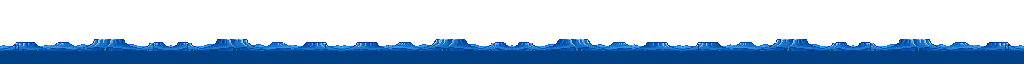
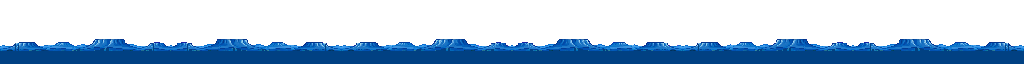
v0.52.1: os 16 fundos do horizonte desenhados pelo Victor (cidade e zona industrial com versão noturna de luzes acesas)
Claude-Session: https://claude.ai/code/session_01MLD9VR7gkmY4w6a9beZcp6

diff --git a/src/bgart.ts b/src/bgart.ts
@@ -332,18 +332,20 @@ const cache = new Map<string, HTMLCanvasElement>();
 // no cache, para trocar assim que ela chegar); à noite os pixels escurecem como os gerados.
 const ART = import.meta.glob('./assets/bg/*.png', { eager: true, import: 'default' }) as Record<string, string>;
 const artImgs = new Map<string, HTMLImageElement>();
-function artFor(kind: BgLayer): HTMLImageElement | null | undefined {
-  const src = ART[`./assets/bg/${kind}.png`];
+// night: a versão noturna (<nome>-night.png, luzes acesas e o resto já escurecido), quando existe
+function artFor(kind: BgLayer, night = false): HTMLImageElement | null | undefined {
+  const name = night && ART[`./assets/bg/${kind}-night.png`] ? `${kind}-night` : kind;
+  const src = ART[`./assets/bg/${name}.png`];
   if (!src) return undefined; // sem arte: fundo gerado
-  let im = artImgs.get(kind);
+  let im = artImgs.get(name);
   if (!im) {
     im = new Image();
     im.src = src;
-    artImgs.set(kind, im);
+    artImgs.set(name, im);
   }
   return im.complete && im.naturalWidth ? im : null; // null: ainda carregando
 }
-export const preloadBgArt = () => (Object.keys(ART).map((k) => k.slice(12, -4)) as BgLayer[]).forEach((k) => artFor(k));
+export const preloadBgArt = () => (Object.keys(ART).map((k) => k.slice(12, -4).replace('-night', '')) as BgLayer[]).forEach((k) => { artFor(k); artFor(k, true); });
 
 export function panorama(kind: BgLayer, near: boolean, night: boolean, seed: number): HTMLCanvasElement {
   const key = `${kind}:${near}:${night}:${seed}`;
@@ -351,14 +353,15 @@ export function panorama(kind: BgLayer, near: boolean, night: boolean, seed: num
   if (cv) return cv;
   const img = new Img(PANO_W, PANO_H);
   const rand = rng(seed * 7919 + (near ? 13 : 3));
-  const art = artFor(kind);
+  const art = artFor(kind, night);
+  const preNight = night && !!ART[`./assets/bg/${kind}-night.png`]; // já vem escurecida, com as luzes
   if (art) {
     const g = document.createElement('canvas').getContext('2d', { willReadFrequently: true })!;
     g.canvas.width = PANO_W;
     g.canvas.height = PANO_H;
     g.drawImage(art, 0, 0, PANO_W, PANO_H);
     const d = g.getImageData(0, 0, PANO_W, PANO_H);
-    if (night) for (let i = 0; i < d.data.length; i += 4) { d.data[i] *= 0.42; d.data[i + 1] *= 0.42; d.data[i + 2] *= 0.42; }
+    if (night && !preNight) for (let i = 0; i < d.data.length; i += 4) { d.data[i] *= 0.42; d.data[i + 1] *= 0.42; d.data[i + 2] *= 0.42; }
     img.data = d;
   } else switch (kind) {
     case 'city': city(img, rand, night); break;

diff --git a/src/main.ts b/src/main.ts
@@ -1,3 +1,4 @@
+import { preloadBgArt } from './bgart';
 import { carSwapWatch } from './carswap';
 import { freeBudget, newFrame } from './svgsprites';
 import { VIEW_LEVELS, prefs, raceViewSize, savePrefs, volLabel } from './prefs';
@@ -28,6 +29,7 @@ import { F40_REAR, F40_SIDE, F40_WHEEL } from './svg/f40';
 preloadSvg(F40_SIDE, F40_REAR, F40_WHEEL, ...CARS.flatMap((c) => [c.imgSide, c.sideMask, c.rear.img, c.rear.imgMask, c.rear.frontImg, c.rear.frontMask]).filter((s): s is string => !!s), ...TRAFFIC_IMAGES);
 import { preloadPhotos } from './photos';
 preloadPhotos();
+preloadBgArt(); // fundos desenhados (relevo do horizonte): prontos antes da primeira corrida
 
 const canvas = document.getElementById('game') as HTMLCanvasElement;
 // opaco: a página não precisa misturar o jogo com o fundo (mais leve para a placa de vídeo)

diff --git a/tools/ref/bg_panorama.py b/tools/ref/bg_panorama.py
@@ -29,8 +29,14 @@ def main():
     mag = (a[..., 0] > 170) & (a[..., 1] < 110) & (a[..., 2] > 170)
     g = cv2.cvtColor(a.astype(np.uint8), cv2.COLOR_RGB2GRAY).astype(float)
     top = int(np.where((~mag).any(1))[0].min())
-    py, phy = period_phase(np.abs(np.diff(g, axis=0))[top:].sum(1), 9.5, 18)  # blocos quase quadrados (~12 px)
-    phy += top
+    # grade: período pelas bordas verticais (colunas), o mesmo nas linhas (pixel quadrado); só a fase
+    # das linhas é procurada (a detecção solta nas linhas errava em artes com muitas faixas horizontais)
+    px0 = float(os.environ.get('PIX', a.shape[1] * reps / W))  # tamanho do pixel do desenho (as artes do gerador vêm com ~12-13 px)
+    py = px0
+    ey = np.abs(np.diff(g, axis=0))[top:].sum(1)
+    ey = ey - ey.mean()
+    k = np.arange(len(ey))
+    phy = (-np.angle((ey * np.exp(2j * np.pi * k / py)).sum()) / (2 * np.pi) * py) % py + top
     hh, ww = a.shape[:2]
     rows = []
     y = phy + py / 2
@@ -38,7 +44,7 @@ def main():
         if y >= top - py and y < hh:
             rows.append(y)
         y += py
-    px = ww * reps / W  # período de amostragem em x (próximo do período da arte)
+    px = px0  # um pixel do desenho por coluna; a faixa de 1024 vai e volta pela arte (espelhada)
     o = np.zeros((H, W, 4), np.uint8)
     r = max(1, int(min(px, py) * 0.22))
     y0 = H - len(rows)

diff --git a/tools/ref/bg_lights.py b/tools/ref/bg_lights.py
@@ -1,0 +1,29 @@
+"""Fundos com luzes acesas na arte (cidade, zona industrial): separa dia e noite.
+- <nome>.png (dia): janelas e luzes apagadas (viram o vidro escuro azulado das janelas)
+- <nome>-night.png (noite): o resto já escurecido como os fundos gerados (x0,42) e as luzes acesas,
+  com o brilho cheio (bgart.ts usa este arquivo à noite sem escurecer de novo)
+Uso: python3 tools/ref/bg_lights.py src/assets/bg/<nome>.png
+"""
+import sys
+
+import numpy as np
+from PIL import Image
+
+
+def main():
+    p = sys.argv[1]
+    a = np.array(Image.open(p).convert('RGBA')).astype(int)
+    r, g, b, al = a[..., 0], a[..., 1], a[..., 2], a[..., 3]
+    lit = (al > 0) & (((r > 170) & (g > 110) & (b < 120) & (r - b > 80)) | ((r > 190) & (g < 110) & (b < 110)))
+    day = a.copy()
+    day[lit, 0], day[lit, 1], day[lit, 2] = 58, 68, 104
+    night = a.copy()
+    night[..., :3] = (night[..., :3] * 0.42).astype(int)
+    night[lit, :3] = a[lit, :3]
+    Image.fromarray(day.astype(np.uint8)).save(p, optimize=True)
+    Image.fromarray(night.astype(np.uint8)).save(p.replace('.png', '-night.png'), optimize=True)
+    print(p, 'luzes:', int(lit.sum()))
+
+
+if __name__ == '__main__':
+    main()
